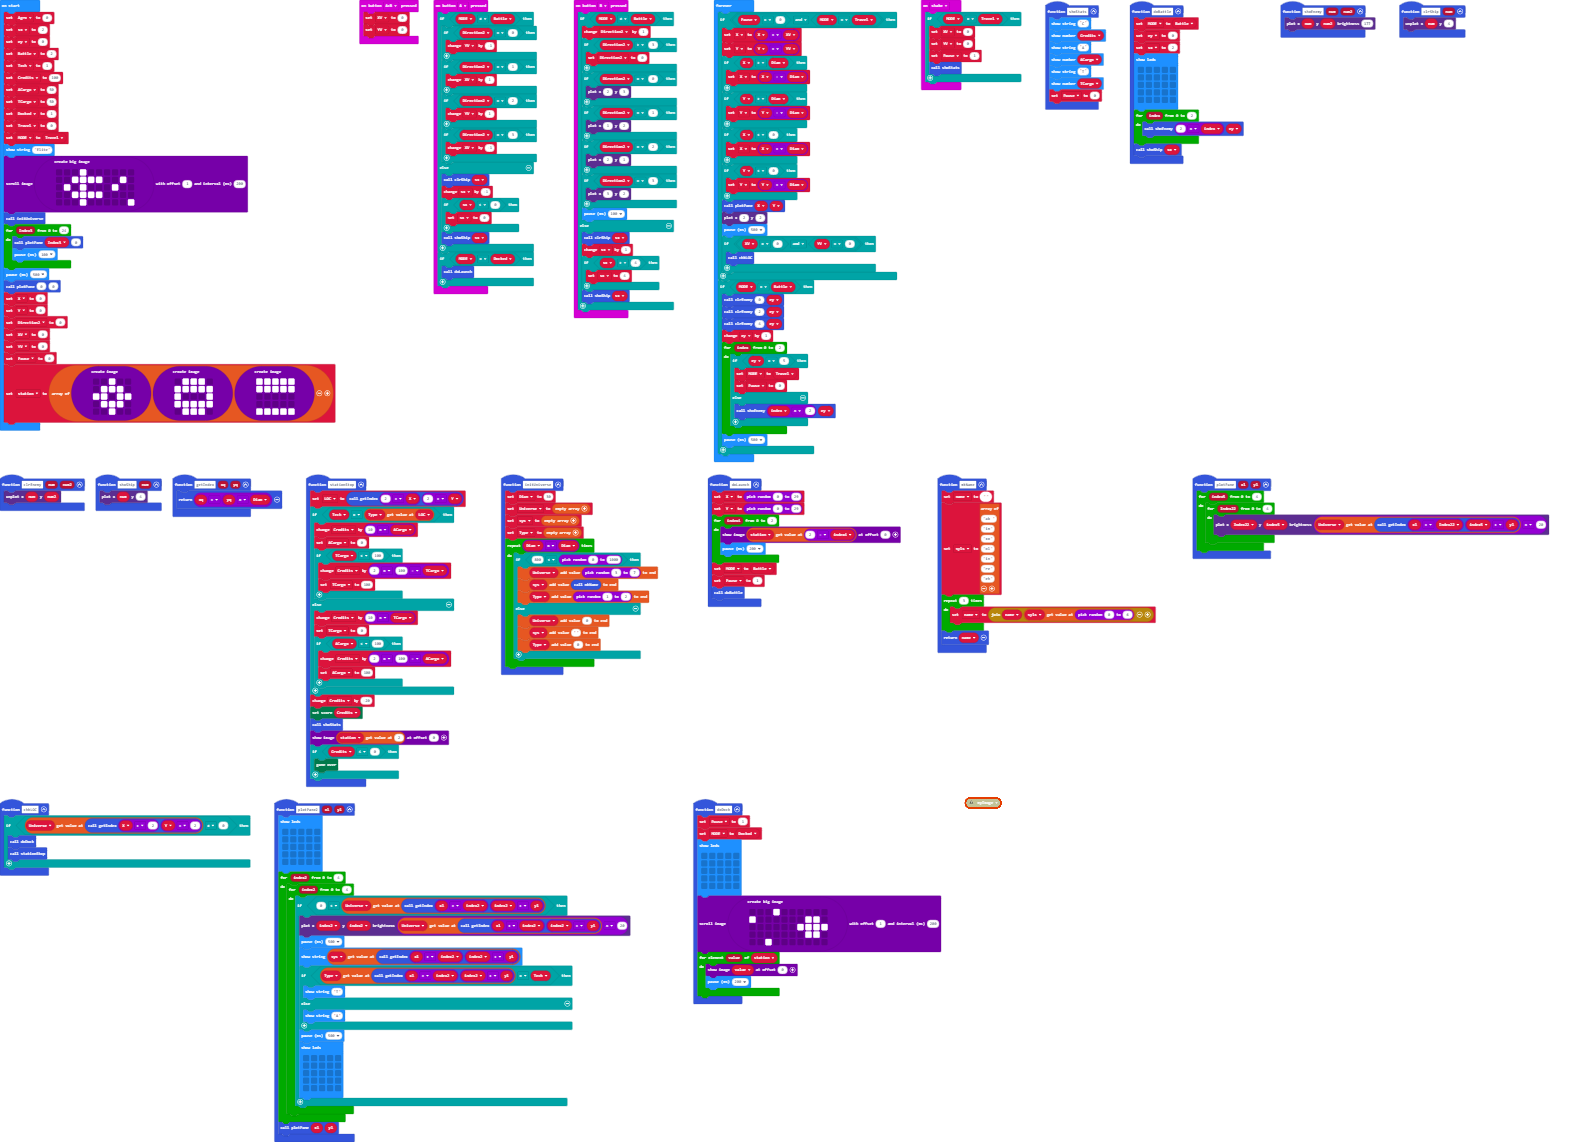
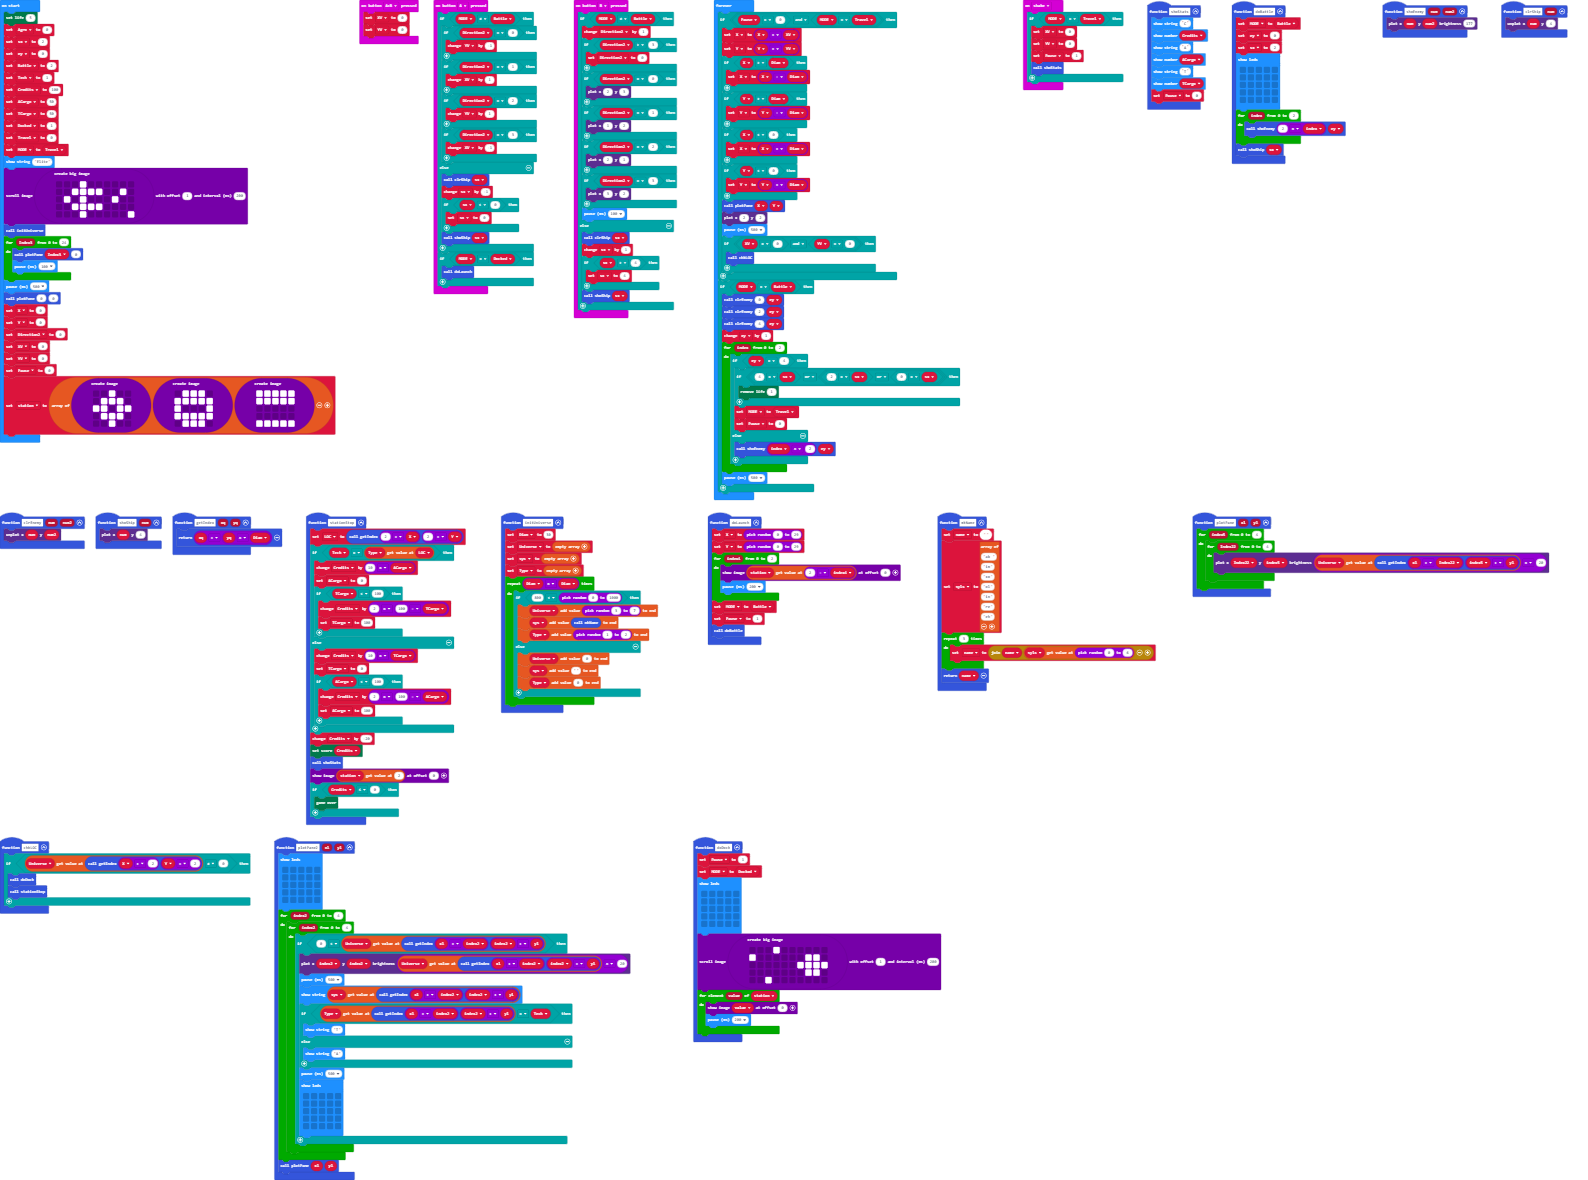
Update main.blocks, main.ts

diff --git a/main.ts b/main.ts
@@ -264,6 +264,7 @@ let Tech = 0
 let Battle = 0
 let ey = 0
 let sx = 0
+game.setLife(5)
 let Agro = 0
 sx = 2
 ey = 0
@@ -344,7 +345,10 @@ basic.forever(function () {
         clrEnemy(4, ey)
         ey += 1
         for (let index = 0; index <= 2; index++) {
-            if (ey == 5) {
+            if (ey == 4) {
+                if (4 == sx || (2 == sx || 0 == sx)) {
+                    game.removeLife(1)
+                }
                 MODE = Travel
                 Pause = 0
             } else {
